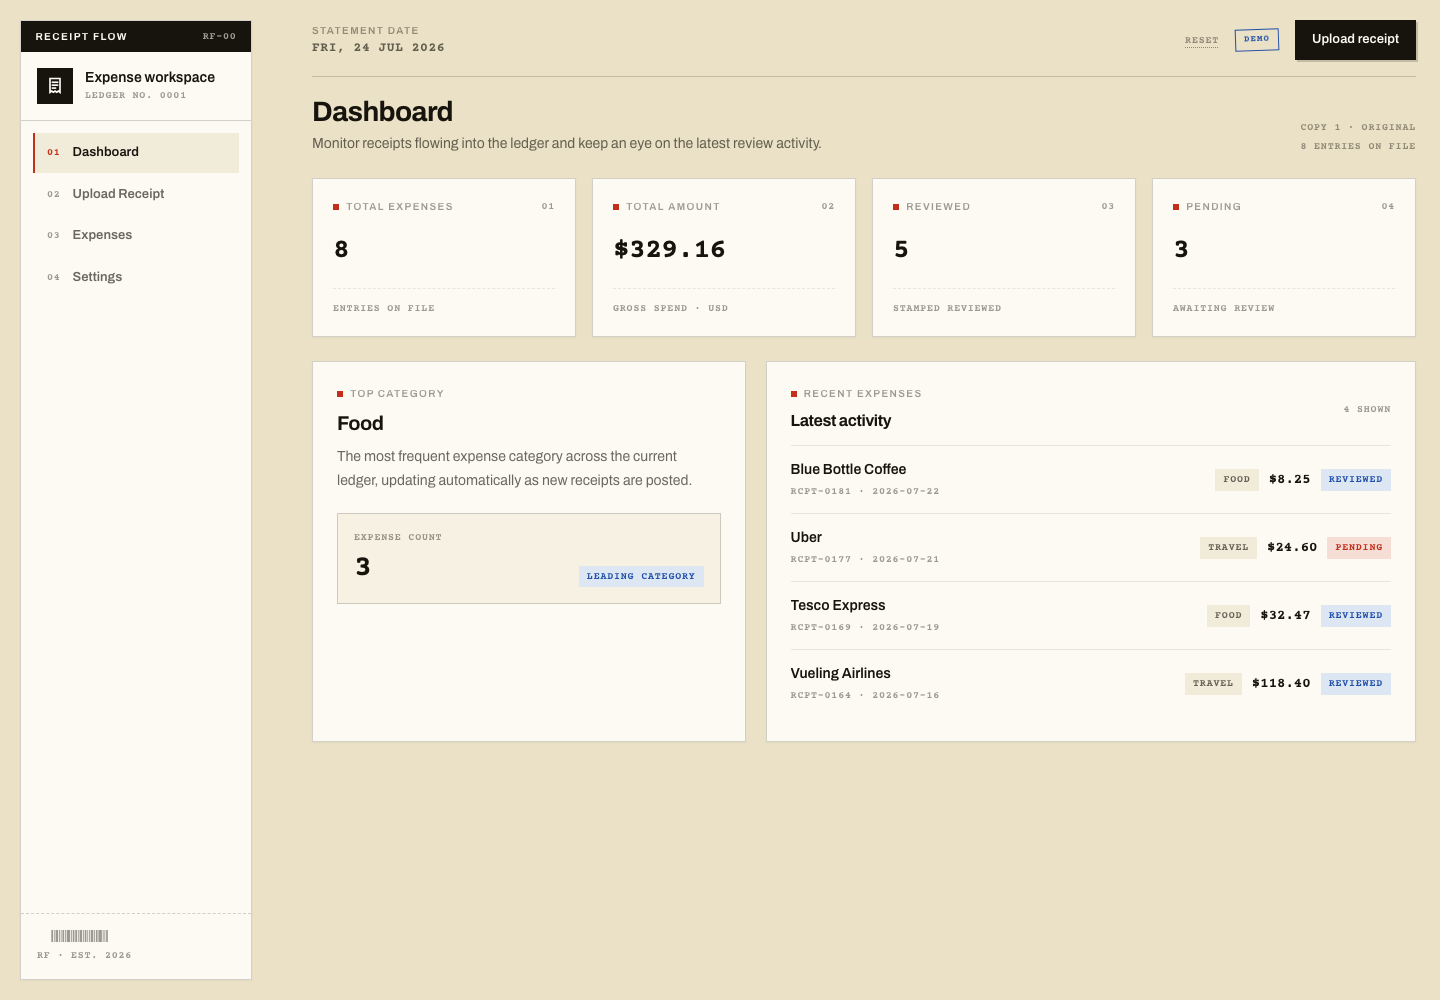
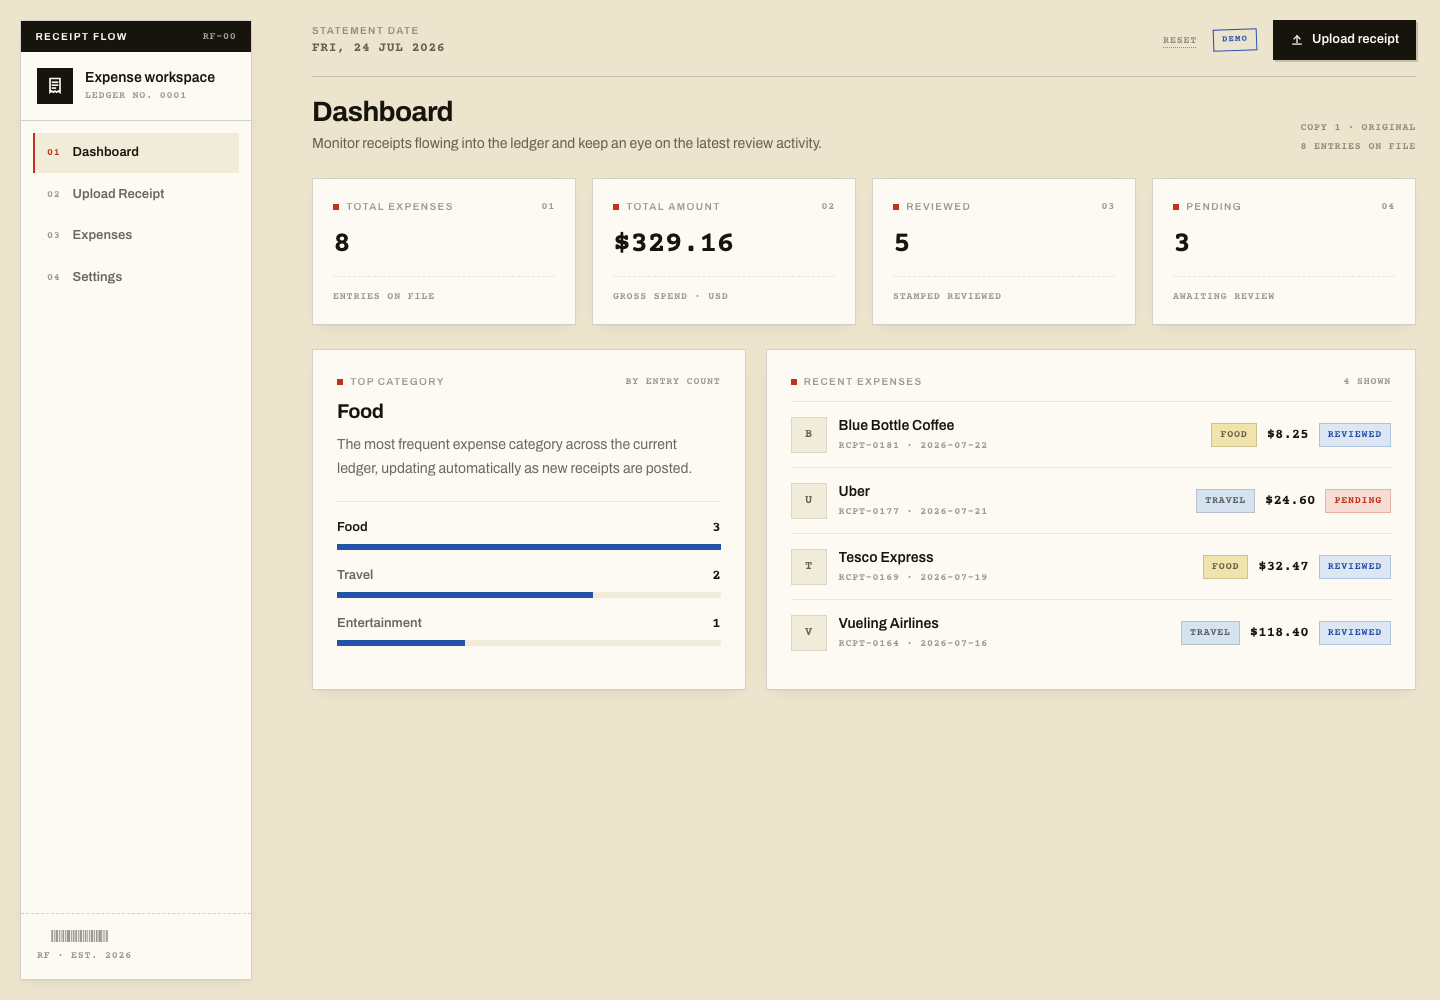
Refine v3: depth, monograms, category tints, richer data displays
Polish pass on the productized Carbon Copy — same design, higher finish:

- Layered card shadows and a subtle desk-light gradient at the top of
  the page give the form sheets real lift off the manila
- Merchant monogram blocks (stamped initials) anchor every row in the
  recent-activity list and the expenses table
- Category chips get stable carbon-copy tints (Food yellow, Travel /
  Utilities blue, Shopping / Entertainment pink) via a shared util
- Top Category card fills its dead space with a ranked top-3 list and
  count bars; breakdown bars on Expenses gain %-of-total figures
- Status/category badges get crisp 1px current-color borders
- Upload CTA gains an icon; fields get a hover state; stat values
  bumped to 30px leading-none for tighter rhythm

Verified: build + lint clean; CDP flows re-run, all pass.

Changed region(s): [[0.2188, 0.217, 1.0, 0.744], [0.2188, 0.527, 0.5, 0.651], [0.8125, 0.0, 0.9062, 0.062]]

diff --git a/src/pages/Dashboard.jsx b/src/pages/Dashboard.jsx
@@ -35,12 +35,13 @@ function Dashboard() {
     return counts
   }, {})
 
-  const topCategoryEntry =
-    Object.entries(categoryCounts).sort((left, right) => right[1] - left[1])[0] ??
-    null
+  const rankedCategories = Object.entries(categoryCounts).sort(
+    (left, right) => right[1] - left[1],
+  )
 
-  const topCategoryName = topCategoryEntry?.[0] ?? 'No category yet'
-  const topCategoryCount = topCategoryEntry?.[1] ?? 0
+  const topCategoryName = rankedCategories[0]?.[0] ?? 'No category yet'
+  const maxCategoryCount = rankedCategories[0]?.[1] ?? 0
+  const topCategories = rankedCategories.slice(0, 3)
   const recentExpenses = expenses.slice(0, 4)
   const hasExpenses = expenses.length > 0
 
@@ -107,22 +108,27 @@ function Dashboard() {
 
       <div className="reveal reveal-2 grid min-w-0 gap-4 sm:gap-5 xl:grid-cols-[minmax(0,0.8fr)_minmax(0,1.2fr)]">
         <section className="card p-5 sm:p-6">
-          <p className="eyebrow">Top category</p>
+          <div className="flex items-center justify-between gap-3">
+            <p className="eyebrow">Top category</p>
+            <span className="copy-meta">By entry count</span>
+          </div>
           {isLoading ? (
-            <div className="mt-4 space-y-4">
+            <div className="mt-3 space-y-4">
               <Skeleton className="h-7 w-40" />
               <div className="space-y-2">
                 <Skeleton className="h-4 w-full max-w-md" />
                 <Skeleton className="h-4 w-4/5 max-w-sm" />
               </div>
-              <div className="mt-5 border border-rule bg-sunken/60 p-4">
-                <div className="flex items-end justify-between gap-4">
-                  <div className="space-y-3">
-                    <Skeleton className="h-3 w-24" />
-                    <Skeleton className="h-8 w-12" />
+              <div className="space-y-4 border-t border-rule-soft pt-4">
+                {Array.from({ length: 3 }, (_, index) => (
+                  <div key={index}>
+                    <div className="flex items-baseline justify-between gap-4">
+                      <Skeleton className="h-4 w-24" />
+                      <Skeleton className="h-4 w-8" />
+                    </div>
+                    <Skeleton className="mt-2 h-1.5 w-full" />
                   </div>
-                  <Skeleton className="h-5 w-28" />
-                </div>
+                ))}
               </div>
             </div>
           ) : hasExpenses ? (
@@ -135,19 +141,31 @@ function Dashboard() {
                 updating automatically as new receipts are posted.
               </p>
 
-              <div className="mt-5 border border-rule bg-sunken/60 p-4">
-                <div className="flex items-end justify-between gap-4">
-                  <div>
-                    <p className="copy-meta">Expense count</p>
-                    <p className="figure mt-1.5 text-3xl font-bold tracking-tight text-ink">
-                      {topCategoryCount}
-                    </p>
+              <div className="mt-5 space-y-4 border-t border-rule-soft pt-4">
+                {topCategories.map(([category, count], index) => (
+                  <div key={category}>
+                    <div className="flex items-baseline justify-between gap-4">
+                      <span
+                        className={`text-[13px] font-semibold ${
+                          index === 0 ? 'text-ink' : 'text-ink-soft'
+                        }`}
+                      >
+                        {category}
+                      </span>
+                      <span className="figure text-sm font-bold text-ink">
+                        {count}
+                      </span>
+                    </div>
+                    <div className="mt-1.5 h-1.5 w-full bg-sunken">
+                      <div
+                        className="h-full bg-accent transition-all"
+                        style={{
+                          width: `${maxCategoryCount > 0 ? (count / maxCategoryCount) * 100 : 0}%`,
+                        }}
+                      />
+                    </div>
                   </div>
-
-                  <span className="badge bg-accent-tint text-accent">
-                    Leading category
-                  </span>
-                </div>
+                ))}
               </div>
             </>
           ) : (

diff --git a/src/components/dashboard/DashboardRecentExpenses.jsx b/src/components/dashboard/DashboardRecentExpenses.jsx
@@ -1,3 +1,4 @@
+import categoryChipClass from '../../utils/categoryChipClass'
 import EmptyStateCard from '../EmptyStateCard'
 import Skeleton from '../Skeleton'
 
@@ -16,9 +17,6 @@ function DashboardRecentExpenses({ expenses, isLoading = false }) {
       <div className="flex items-center justify-between gap-3 pb-3">
         <div>
           <p className="eyebrow">Recent expenses</p>
-          <h3 className="mt-2 text-base font-bold tracking-tight text-ink">
-            Latest activity
-          </h3>
         </div>
 
         <span className="copy-meta">{expenses.length} shown</span>
@@ -31,9 +29,12 @@ function DashboardRecentExpenses({ expenses, isLoading = false }) {
                 key={index}
                 className="flex flex-col gap-3 py-4 sm:flex-row sm:items-center sm:justify-between sm:gap-4"
               >
-                <div className="space-y-2">
-                  <Skeleton className="h-4 w-36" />
-                  <Skeleton className="h-3 w-24" />
+                <div className="flex items-center gap-3">
+                  <Skeleton className="h-9 w-9" />
+                  <div className="space-y-2">
+                    <Skeleton className="h-4 w-36" />
+                    <Skeleton className="h-3 w-24" />
+                  </div>
                 </div>
                 <div className="flex flex-wrap items-center gap-3 sm:justify-end">
                   <Skeleton className="h-5 w-16" />
@@ -47,17 +48,22 @@ function DashboardRecentExpenses({ expenses, isLoading = false }) {
                 key={expense.id}
                 className="flex flex-col gap-2.5 py-3.5 transition hover:bg-sunken/60 sm:flex-row sm:items-center sm:justify-between sm:gap-4"
               >
-                <div className="min-w-0">
-                  <p className="truncate text-sm font-semibold text-ink">
-                    {expense.merchant}
-                  </p>
-                  <p className="copy-meta mt-1">
-                    {expense.reference} · {expense.date}
-                  </p>
+                <div className="flex min-w-0 items-center gap-3">
+                  <span className="monogram h-9 w-9 text-[12px]">
+                    {expense.merchant?.charAt(0) || '?'}
+                  </span>
+                  <div className="min-w-0">
+                    <p className="truncate text-sm font-semibold text-ink">
+                      {expense.merchant}
+                    </p>
+                    <p className="copy-meta mt-0.5">
+                      {expense.reference} · {expense.date}
+                    </p>
+                  </div>
                 </div>
 
                 <div className="flex flex-wrap items-center gap-2.5 sm:justify-end">
-                  <span className="badge bg-sunken text-ink-soft">
+                  <span className={categoryChipClass(expense.category)}>
                     {expense.category}
                   </span>
                   <span className="figure text-sm font-bold text-ink">

diff --git a/src/pages/Expenses.jsx b/src/pages/Expenses.jsx
@@ -128,7 +128,7 @@ function Expenses() {
                     <p className="eyebrow">Total Spend</p>
                     <span className="copy-meta">01</span>
                   </div>
-                  <p className="figure mt-4 text-[28px] font-bold tracking-tight text-ink">
+                  <p className="figure mt-4 text-[30px] font-bold leading-none tracking-tight text-ink">
                     {formatCurrency(totalSpend)}
                   </p>
                   <div className="tear mt-4" />
@@ -140,7 +140,7 @@ function Expenses() {
                     <p className="eyebrow">Volume</p>
                     <span className="copy-meta">02</span>
                   </div>
-                  <p className="figure mt-4 text-[28px] font-bold tracking-tight text-ink">
+                  <p className="figure mt-4 text-[30px] font-bold leading-none tracking-tight text-ink">
                     {expenses.length}
                   </p>
                   <div className="tear mt-4" />
@@ -152,7 +152,7 @@ function Expenses() {
                     <p className="eyebrow">Top Category</p>
                     <span className="copy-meta">03</span>
                   </div>
-                  <p className="figure mt-4 truncate text-[28px] font-bold tracking-tight text-ink">
+                  <p className="figure mt-4 truncate text-[30px] font-bold leading-none tracking-tight text-ink">
                     {topCategory}
                   </p>
                   <div className="tear mt-4" />
@@ -200,8 +200,13 @@ function Expenses() {
                     <span className="text-[13px] font-semibold text-ink">
                       {category}
                     </span>
-                    <span className="figure text-sm font-bold text-ink">
-                      {formatCurrency(amount)}
+                    <span className="flex items-baseline gap-2">
+                      <span className="figure text-sm font-bold text-ink">
+                        {formatCurrency(amount)}
+                      </span>
+                      <span className="copy-meta w-9 text-right">
+                        {totalSpend > 0 ? Math.round((amount / totalSpend) * 100) : 0}%
+                      </span>
                     </span>
                   </div>
 

diff --git a/src/index.css b/src/index.css
@@ -13,7 +13,8 @@
 :root {
   color-scheme: light;
 
-  --paper: #eae1c6; /* manila desk, softened */
+  --paper: #ece4cd; /* manila desk, softened */
+  --paper-hi: #f3edde; /* desk highlight at the top of the page */
   --card: #fcfaf3; /* the form sheet */
   --sunken: #f1ebd9;
   --ink: #17140d;
@@ -32,12 +33,16 @@
   --carbon-blue: #d5e2f0;
 
   --press: #17140d;
+  --shadow-card:
+    0 1px 0 rgba(23, 20, 13, 0.04),
+    0 6px 18px -10px rgba(23, 20, 13, 0.14);
 }
 
 .dark {
   color-scheme: dark;
 
   --paper: #141120; /* carbon-paper purple-black */
+  --paper-hi: #1a1629;
   --card: #1d1930;
   --sunken: #262141;
   --ink: #d9d3f0;
@@ -56,6 +61,9 @@
   --carbon-blue: rgba(207, 224, 240, 0.14);
 
   --press: #060410;
+  --shadow-card:
+    0 1px 0 rgba(0, 0, 0, 0.2),
+    0 6px 18px -10px rgba(0, 0, 0, 0.5);
 }
 
 @theme inline {
@@ -92,7 +100,9 @@
 
 body {
   min-height: 100vh;
-  background: var(--paper);
+  background-color: var(--paper);
+  background-image: linear-gradient(180deg, var(--paper-hi), var(--paper) 420px);
+  background-repeat: no-repeat;
 }
 
 #root {
@@ -150,7 +160,7 @@ body {
   background: var(--card);
   border: 1px solid var(--rule);
   border-radius: 0;
-  box-shadow: 0 1px 2px rgba(0, 0, 0, 0.04);
+  box-shadow: var(--shadow-card);
 }
 
 /* Black title bar — reserved for brand and ceremony (sidebar, modals). */
@@ -192,7 +202,22 @@ body {
   letter-spacing: 0.08em;
   text-transform: uppercase;
   padding: 0.2rem 0.5rem;
+  border: 1px solid color-mix(in oklab, currentColor 25%, transparent);
   white-space: nowrap;
+}
+
+/* Merchant monogram — a small stamped initial block. */
+.monogram {
+  display: flex;
+  align-items: center;
+  justify-content: center;
+  flex: none;
+  font-family: var(--font-mono);
+  font-weight: 700;
+  text-transform: uppercase;
+  background: var(--sunken);
+  border: 1px solid var(--rule-soft);
+  color: var(--ink-soft);
 }
 
 /* One ceremonial rubber stamp allowed on screen (the demo mark). */
@@ -318,6 +343,10 @@ body {
 .field::placeholder {
   color: var(--ink-faint);
   font-style: italic;
+}
+
+.field:hover:not(:disabled):not(:focus) {
+  border-color: var(--ink-faint);
 }
 
 .field:focus {

diff --git a/src/components/expenses/ExpensesTable.jsx b/src/components/expenses/ExpensesTable.jsx
@@ -1,3 +1,4 @@
+import categoryChipClass from '../../utils/categoryChipClass'
 import EmptyStateCard from '../EmptyStateCard'
 import Skeleton from '../Skeleton'
 
@@ -80,9 +81,14 @@ function ExpensesTable({ expenses, hasExpenses, isLoading = false, onDeleteExpen
                     <td
                       className={`px-5 py-3 sm:px-6 ${rowIndex > 0 ? 'border-t border-rule-soft' : ''}`}
                     >
-                      <div>
-                        <p className="font-semibold text-ink">{expense.merchant}</p>
-                        <p className="copy-meta mt-0.5">{expense.reference}</p>
+                      <div className="flex items-center gap-3">
+                        <span className="monogram h-8 w-8 text-[11px]">
+                          {expense.merchant?.charAt(0) || '?'}
+                        </span>
+                        <div>
+                          <p className="font-semibold text-ink">{expense.merchant}</p>
+                          <p className="copy-meta mt-0.5">{expense.reference}</p>
+                        </div>
                       </div>
                     </td>
                     <td
@@ -98,7 +104,7 @@ function ExpensesTable({ expenses, hasExpenses, isLoading = false, onDeleteExpen
                     <td
                       className={`px-5 py-3 sm:px-6 ${rowIndex > 0 ? 'border-t border-rule-soft' : ''}`}
                     >
-                      <span className="badge bg-sunken text-ink-soft">
+                      <span className={categoryChipClass(expense.category)}>
                         {expense.category}
                       </span>
                     </td>

diff --git a/src/components/Topbar.jsx b/src/components/Topbar.jsx
@@ -45,6 +45,19 @@ function Topbar() {
 
         {!isOnUploadPage && (
           <Link to="/upload-receipt" className="btn btn-primary">
+            <svg
+              viewBox="0 0 24 24"
+              aria-hidden="true"
+              className="h-3.5 w-3.5"
+              fill="none"
+              stroke="currentColor"
+              strokeWidth="2.2"
+              strokeLinecap="square"
+            >
+              <path d="M12 16V5" />
+              <path d="m7 10 5-5 5 5" />
+              <path d="M5 19h14" />
+            </svg>
             Upload receipt
           </Link>
         )}

diff --git a/src/utils/categoryChipClass.js b/src/utils/categoryChipClass.js
@@ -1,0 +1,14 @@
+// Stable carbon-copy tint per category, so lists read with a consistent
+// color rhythm without introducing new palette colors.
+const CATEGORY_TINTS = {
+  Food: 'bg-carbon-yellow',
+  Travel: 'bg-carbon-blue',
+  Shopping: 'bg-carbon-pink',
+  Utilities: 'bg-carbon-blue',
+  Entertainment: 'bg-carbon-pink',
+}
+
+export default function categoryChipClass(category) {
+  const tint = CATEGORY_TINTS[category] ?? 'bg-sunken'
+  return `badge ${tint} text-ink-soft`
+}

diff --git a/src/components/dashboard/DashboardSummaryCard.jsx b/src/components/dashboard/DashboardSummaryCard.jsx
@@ -6,7 +6,7 @@ function DashboardSummaryCard({ index, title, value, caption }) {
         <span className="copy-meta">{index}</span>
       </div>
 
-      <p className="figure mt-4 text-[28px] font-bold tracking-tight text-ink">
+      <p className="figure mt-4 text-[30px] font-bold leading-none tracking-tight text-ink">
         {value}
       </p>
 
